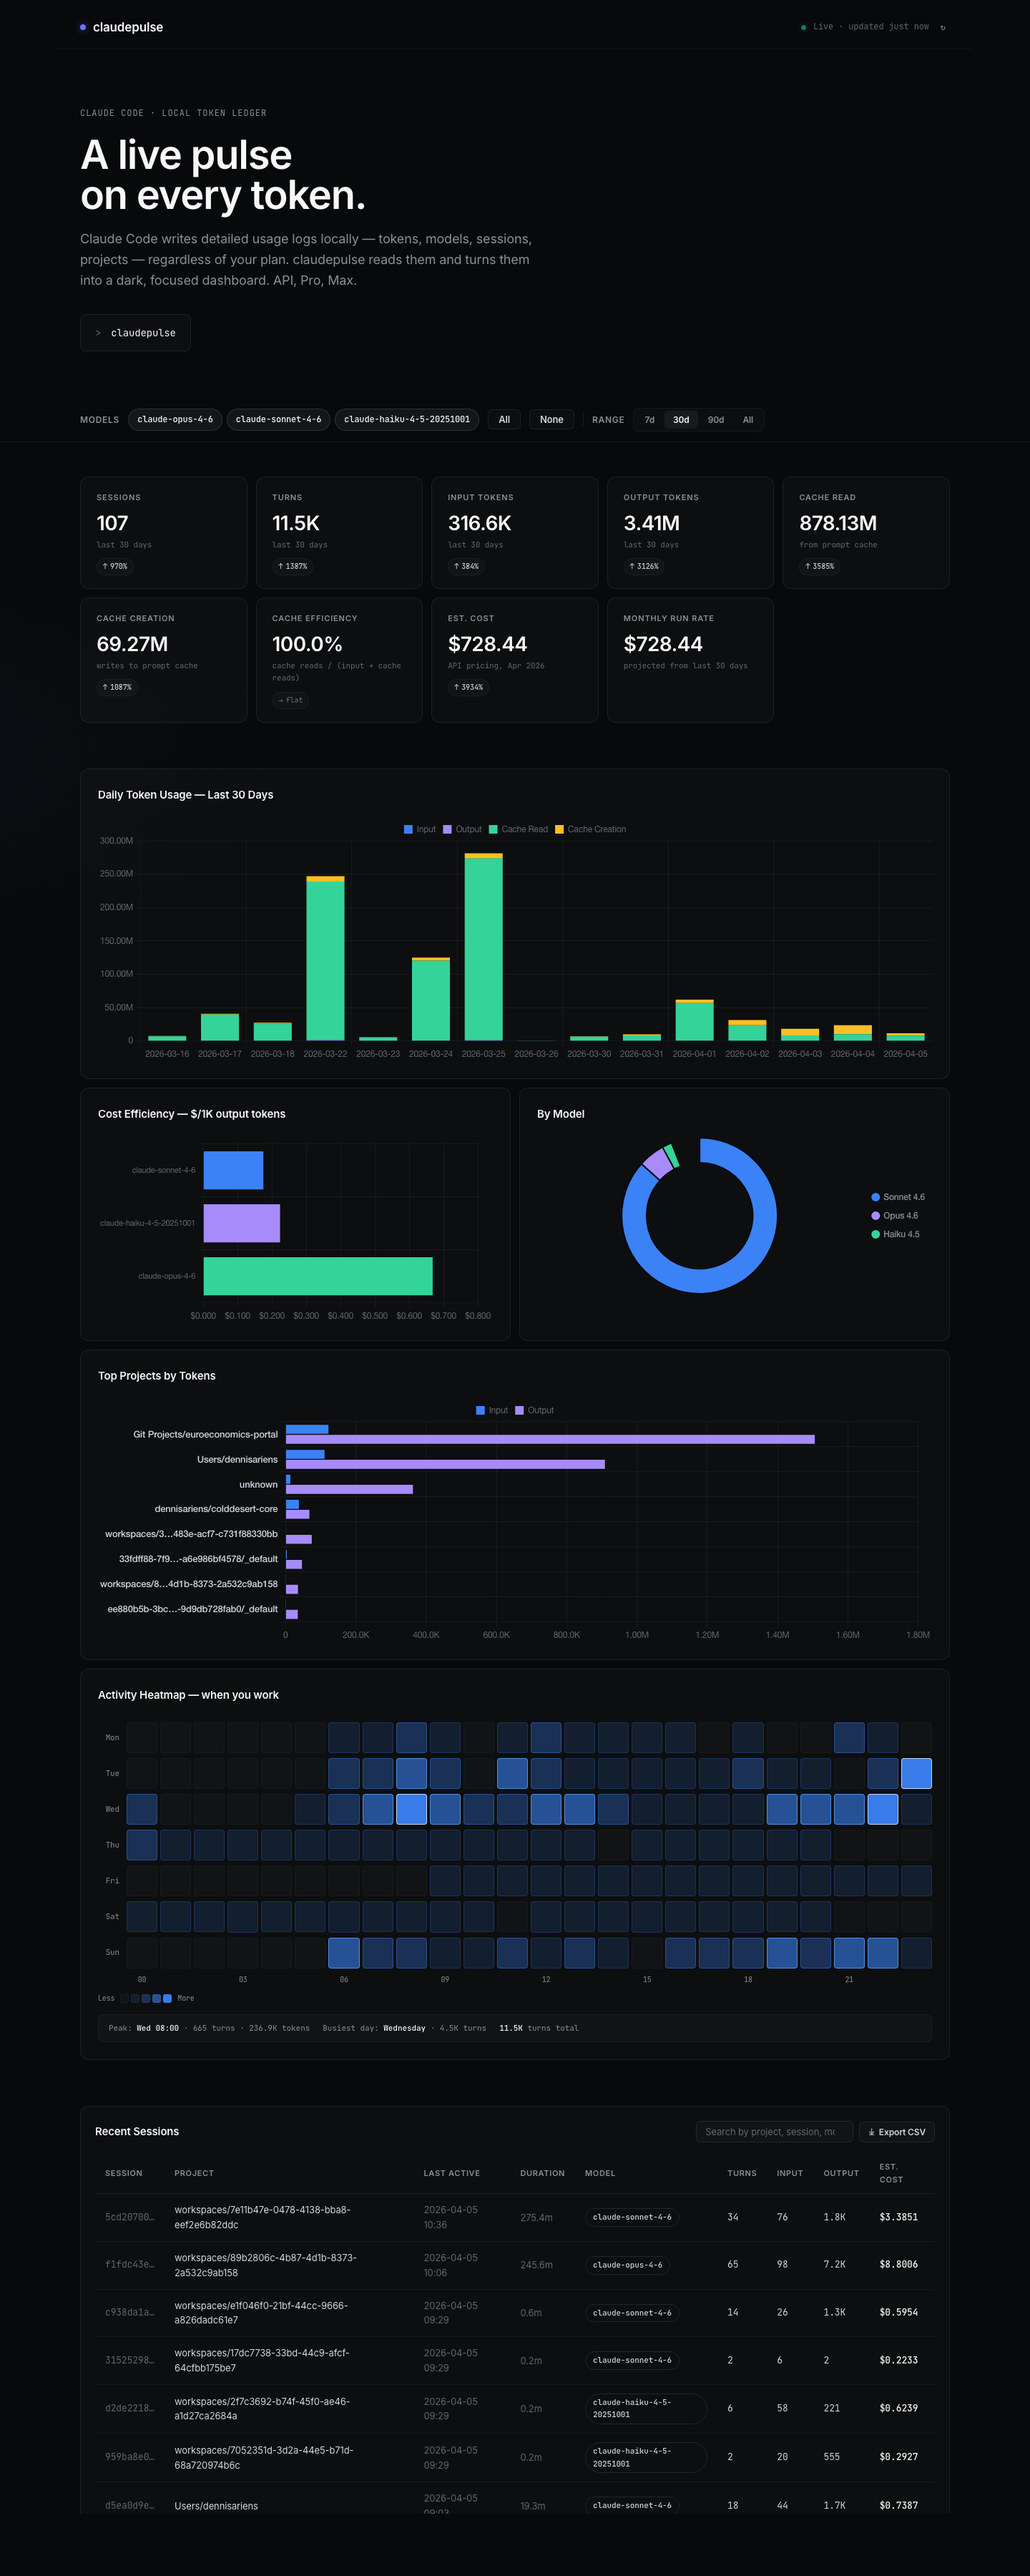
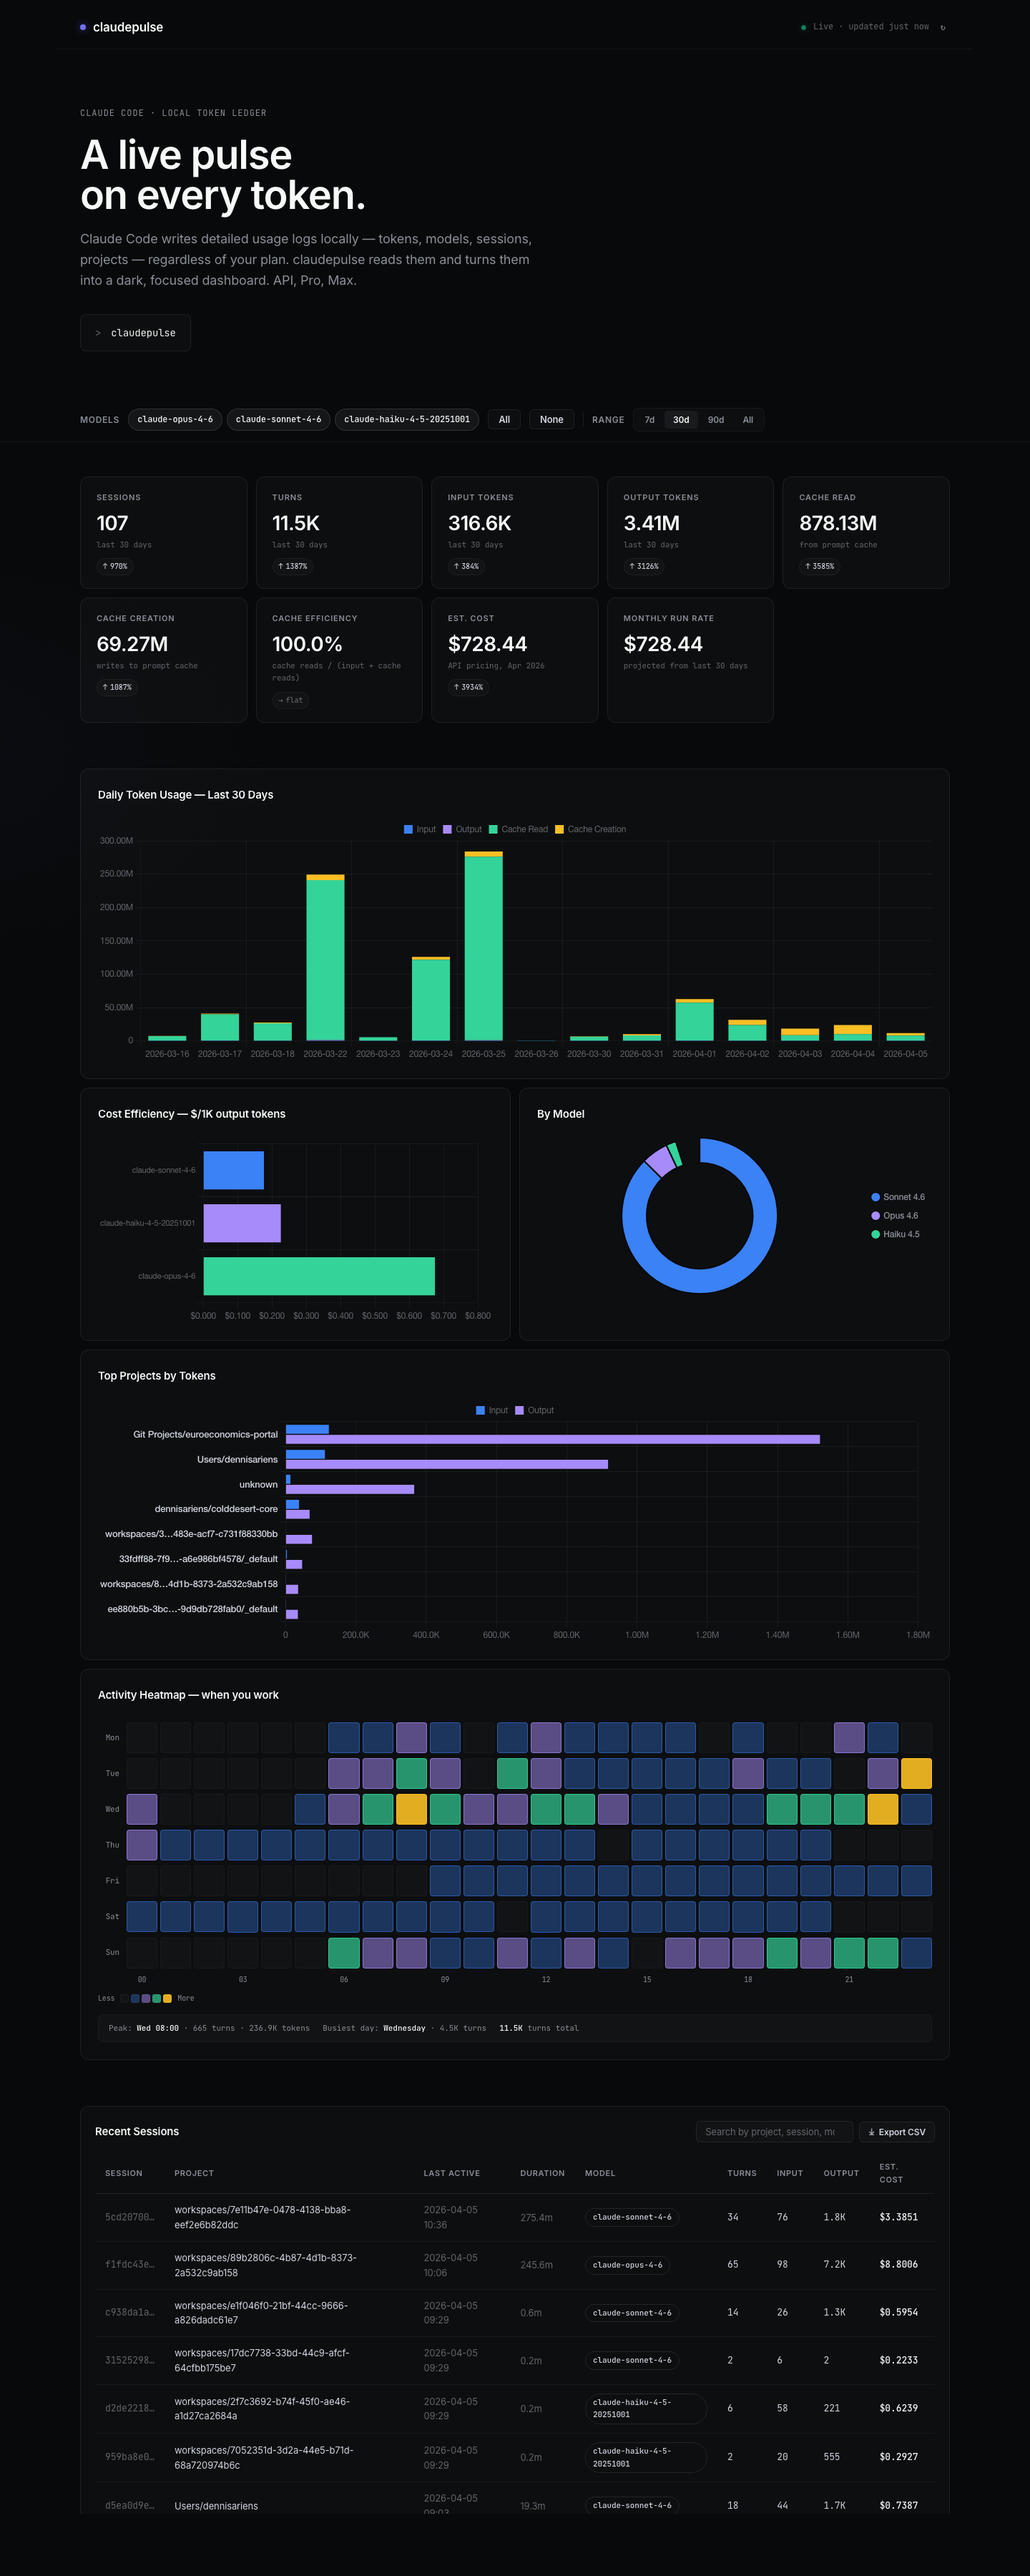
v1.1.3: restore four-color heatmap consistency

Changed region(s): [[0.125, 0.6533, 0.9062, 0.7778], [0.625, 0.4356, 0.6562, 0.4667]]

diff --git a/dashboard.py b/dashboard.py
@@ -287,8 +287,8 @@ HTML_TEMPLATE = r"""<!DOCTYPE html>
   .heatmap-label { font-family: var(--font-mono); font-size: 11px; color: var(--text-tertiary); text-align: right; padding-right: 6px; font-weight: 400; transition: color 0.12s; }
   .heatmap-label.is-hover { color: var(--text-primary); }
   .heatmap-cell { aspect-ratio: 1; border-radius: 4px; background: rgba(255,255,255,0.025); border: 1px solid rgba(255,255,255,0.04); min-height: 15px; transition: transform 0.12s, box-shadow 0.12s, border-color 0.12s; cursor: pointer; }
-  .heatmap-cell.is-hover { transform: scale(1.08); box-shadow: 0 0 0 1px rgba(59,130,246,0.90), 0 6px 18px rgba(15,23,42,0.34); border-color: rgba(147,197,253,0.9); z-index: 2; position: relative; }
-  .heatmap-cell.is-selected { box-shadow: 0 0 0 1px rgba(147,197,253,0.85), inset 0 0 0 1px rgba(255,255,255,0.06); border-color: rgba(147,197,253,0.75); }
+  .heatmap-cell.is-hover { transform: scale(1.08); box-shadow: 0 0 0 1px rgba(255,255,255,0.42), 0 6px 18px rgba(15,23,42,0.34); border-color: rgba(255,255,255,0.32); z-index: 2; position: relative; }
+  .heatmap-cell.is-selected { box-shadow: 0 0 0 1px rgba(255,255,255,0.38), inset 0 0 0 1px rgba(255,255,255,0.06); border-color: rgba(255,255,255,0.28); }
   .heatmap-summary { margin-top: 14px; padding: 10px 14px; border-radius: 8px; background: var(--surface-ghost); border: 1px solid var(--border-subtle); font-family: var(--font-mono); font-size: 11px; color: var(--text-tertiary); letter-spacing: -0.06px; display: flex; flex-wrap: wrap; gap: 18px; }
   .heatmap-summary strong { color: var(--text-primary); font-weight: 500; }
   .heatmap-summary .clear-hour { margin-left: auto; color: var(--accent-bright); cursor: pointer; text-decoration: none; border-bottom: 1px solid rgba(113,112,255,0.4); }
@@ -309,10 +309,10 @@ HTML_TEMPLATE = r"""<!DOCTYPE html>
   .heatmap-tooltip .tt-val { color: var(--text-primary); font-weight: 500; }
   .heatmap-tooltip .tt-sub { color: var(--text-tertiary); margin-top: 4px; }
   .heatmap-cell[data-level="0"] { background: rgba(255,255,255,0.018); border-color: rgba(255,255,255,0.035); }
-  .heatmap-cell[data-level="1"] { background: rgba(59,130,246,0.14); border-color: rgba(59,130,246,0.22); }
-  .heatmap-cell[data-level="2"] { background: rgba(59,130,246,0.30); border-color: rgba(59,130,246,0.40); }
-  .heatmap-cell[data-level="3"] { background: rgba(59,130,246,0.58); border-color: rgba(96,165,250,0.72); }
-  .heatmap-cell[data-level="4"] { background: rgba(59,130,246,0.94); border-color: rgba(191,219,254,0.98); }
+  .heatmap-cell[data-level="1"] { background: rgba(59,130,246,0.34);  border-color: rgba(59,130,246,0.48); }  /* input / blue */
+  .heatmap-cell[data-level="2"] { background: rgba(167,139,250,0.50); border-color: rgba(167,139,250,0.66); } /* output / purple */
+  .heatmap-cell[data-level="3"] { background: rgba(52,211,153,0.68);  border-color: rgba(52,211,153,0.82); }  /* cache read / green */
+  .heatmap-cell[data-level="4"] { background: rgba(251,191,36,0.90);  border-color: rgba(251,191,36,0.98); }  /* cache creation / yellow */
   .heatmap-axis { display: grid; grid-template-columns: 36px repeat(24, 1fr); gap: 4px; margin-top: 6px; font-family: var(--font-mono); font-size: 10px; color: var(--text-tertiary); }
   .heatmap-axis span { text-align: center; }
   .heatmap-legend { display: flex; align-items: center; gap: 8px; margin-top: 10px; font-family: var(--font-mono); font-size: 10px; color: var(--text-tertiary); }
@@ -456,10 +456,10 @@ HTML_TEMPLATE = r"""<!DOCTYPE html>
         <span>Less</span>
         <div class="swatches">
           <div class="sw" data-level="0" style="background: rgba(255,255,255,0.018);"></div>
-          <div class="sw" style="background: rgba(59,130,246,0.14);"></div>
-          <div class="sw" style="background: rgba(59,130,246,0.30);"></div>
-          <div class="sw" style="background: rgba(59,130,246,0.58);"></div>
-          <div class="sw" style="background: rgba(59,130,246,0.94);"></div>
+          <div class="sw" style="background: rgba(59,130,246,0.34);"></div>
+          <div class="sw" style="background: rgba(167,139,250,0.50);"></div>
+          <div class="sw" style="background: rgba(52,211,153,0.68);"></div>
+          <div class="sw" style="background: rgba(251,191,36,0.90);"></div>
         </div>
         <span>More</span>
       </div>

diff --git a/cli.py b/cli.py
@@ -280,7 +280,7 @@ Usage:
   claudepulse --version  Show version
 """
 
-__version__ = "1.1.2"
+__version__ = "1.1.3"
 
 COMMANDS = {
     "scan": cmd_scan,

diff --git a/CHANGELOG.md b/CHANGELOG.md
@@ -2,6 +2,13 @@
 
 All notable changes to claudepulse will be documented here.
 
+## [1.1.3] - 2026-04-09
+
+### Changed
+- Heatmap palette redone again for actual system consistency: the four active levels now use the same app colors already used throughout the dashboard — blue, purple, green, and yellow — instead of a blue-only ramp.
+- Heatmap hover and selected states now use neutral white focus rings so interaction styling does not fight the chart colors.
+- Screenshot refreshed to reflect the corrected heatmap palette.
+
 ## [1.1.2] - 2026-04-09
 
 ### Changed
